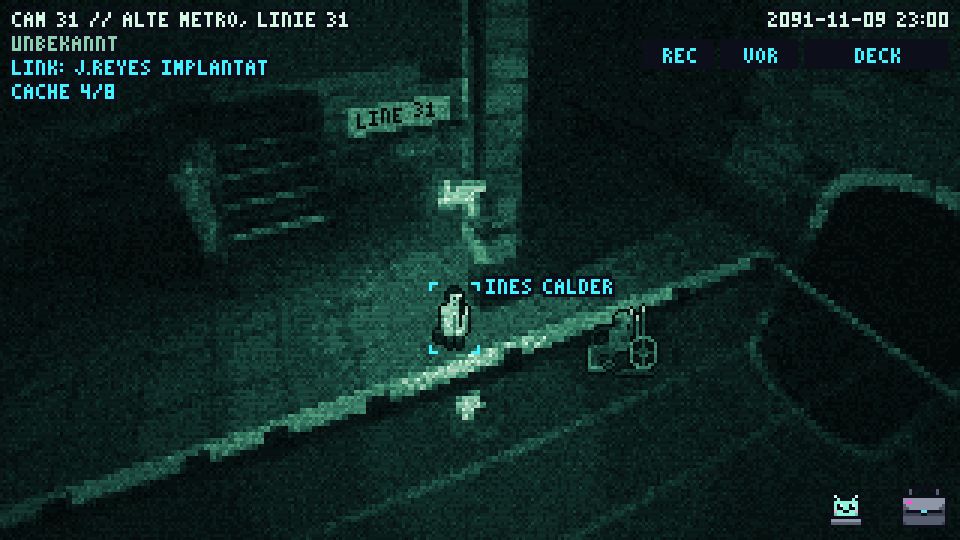
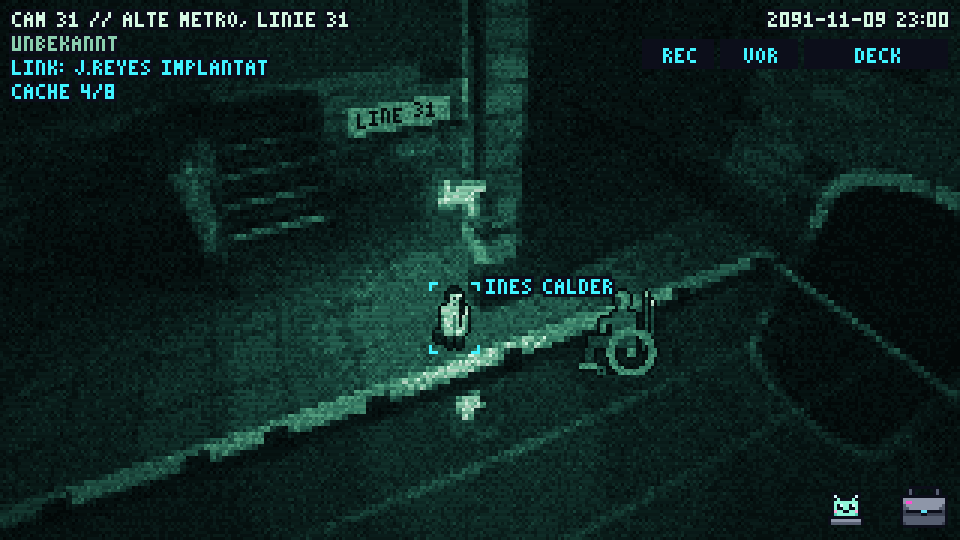
Lantern is now a silhouette like the wheelchair sign, the variant the user chose, with thicker wheels: one sprite in pure profile made of flat shapes, the man an L with flat thighs and shins down, a thick tyre and hub over his hip, a caster, two antennas behind, a thin pontoon at the waterline, mirr

Changed region(s): [[0.5938, 0.5333, 0.6875, 0.7111]]

diff --git a/assets/characters.js b/assets/characters.js
@@ -1,7 +1,7 @@
 // Generated by tools/build-atlas.mjs. Do not edit.
 Cutaway.assets.pack({
   images: {
[2 lines of base64/hex data omitted]
   },
   anims: {
     "ashe_feed": { image: "characters_atlas", frames: [[393,157,17,26,1300],[410,157,17,26,260]] },
@@ -13,23 +13,23 @@ Cutaway.assets.pack({
     "bao_idle_sw": { image: "characters_atlas", frames: [[251,1,31,50,167],[282,1,31,50,167],[313,1,31,50,167],[344,1,31,50,167],[375,1,31,50,167],[406,1,31,50,167],[437,1,31,50,167],[468,1,31,50,167]] },
     "bao_talk_se": { image: "characters_atlas", frames: [[753,53,31,50,160],[784,53,31,50,160],[815,53,31,50,160],[846,53,31,50,260]] },
     "bao_talk_sw": { image: "characters_atlas", frames: [[879,53,31,50,160],[910,53,31,50,160],[941,53,31,50,160],[972,53,31,50,260]] },
-    "commuter_a_feed": { image: "characters_atlas", frames: [[773,157,17,25,125]] },
+    "commuter_a_feed": { image: "characters_atlas", frames: [[669,157,17,25,125]] },
     "commuter_a_feed_walk": { image: "characters_atlas", frames: [[529,157,17,25,100],[546,157,17,25,100],[563,157,17,25,100],[580,157,17,25,100],[597,157,17,25,100],[614,157,17,25,100]] },
-    "commuter_b_feed": { image: "characters_atlas", frames: [[161,185,13,23,1200],[174,185,13,23,900]] },
-    "commuter_b_feed_walk": { image: "characters_atlas", frames: [[1,185,13,23,100],[14,185,13,23,100],[27,185,13,23,100],[40,185,13,23,100],[53,185,13,23,100],[66,185,13,23,100]] },
+    "commuter_b_feed": { image: "characters_atlas", frames: [[81,185,13,23,1200],[94,185,13,23,900]] },
+    "commuter_b_feed_walk": { image: "characters_atlas", frames: [[890,157,13,23,100],[903,157,13,23,100],[916,157,13,23,100],[929,157,13,23,100],[942,157,13,23,100],[955,157,13,23,100]] },
     "commuter_c_feed": { image: "characters_atlas", frames: [[501,157,13,26,1500],[514,157,13,26,800]] },
     "commuter_c_feed_walk": { image: "characters_atlas", frames: [[313,157,13,26,100],[326,157,13,26,100],[339,157,13,26,100],[352,157,13,26,100],[365,157,13,26,100],[378,157,13,26,100]] },
-    "commuter_d_feed": { image: "characters_atlas", frames: [[623,185,13,22,1300],[636,185,13,22,700]] },
-    "commuter_d_feed_walk": { image: "characters_atlas", frames: [[429,185,13,22,100],[442,185,13,22,100],[455,185,13,22,100],[468,185,13,22,100],[481,185,13,22,100],[494,185,13,22,100]] },
-    "drone_hover": { image: "characters_atlas", frames: [[651,185,29,18,100],[680,185,29,18,100],[709,185,29,18,100],[738,185,29,18,100],[767,185,29,18,100],[796,185,29,18,100],[825,185,29,18,100],[854,185,29,18,100],[883,185,29,18,100],[912,185,29,18,100],[941,185,29,18,100],[970,185,29,18,100]] },
-    "ines_feed_back": { image: "characters_atlas", frames: [[559,185,15,22,1700],[574,185,15,22,800]] },
-    "ines_feed_back_walk": { image: "characters_atlas", frames: [[245,185,15,22,100],[260,185,15,22,100],[275,185,15,22,100],[290,185,15,22,100],[305,185,15,22,100],[320,185,15,22,100]] },
-    "ines_feed_down": { image: "characters_atlas", frames: [[1,210,31,9,125]] },
-    "ines_feed_front": { image: "characters_atlas", frames: [[591,185,15,22,1700],[606,185,15,22,800]] },
-    "ines_feed_front_walk": { image: "characters_atlas", frames: [[337,185,15,22,100],[352,185,15,22,100],[367,185,15,22,100],[382,185,15,22,100],[397,185,15,22,100],[412,185,15,22,100]] },
-    "ines_feed_give": { image: "characters_atlas", frames: [[509,185,24,22,450],[533,185,24,22,350]], anchor: [7,22] },
-    "juno_feed": { image: "characters_atlas", frames: [[962,157,15,24,1400],[977,157,15,24,800]] },
-    "juno_feed_walk": { image: "characters_atlas", frames: [[792,157,15,24,100],[807,157,15,24,100],[822,157,15,24,100],[837,157,15,24,100],[852,157,15,24,100],[867,157,15,24,100]] },
+    "commuter_d_feed": { image: "characters_atlas", frames: [[543,185,13,22,1300],[556,185,13,22,700]] },
+    "commuter_d_feed_walk": { image: "characters_atlas", frames: [[349,185,13,22,100],[362,185,13,22,100],[375,185,13,22,100],[388,185,13,22,100],[401,185,13,22,100],[414,185,13,22,100]] },
+    "drone_hover": { image: "characters_atlas", frames: [[571,185,29,18,100],[600,185,29,18,100],[629,185,29,18,100],[658,185,29,18,100],[687,185,29,18,100],[716,185,29,18,100],[745,185,29,18,100],[774,185,29,18,100],[803,185,29,18,100],[832,185,29,18,100],[861,185,29,18,100],[890,185,29,18,100]] },
+    "ines_feed_back": { image: "characters_atlas", frames: [[479,185,15,22,1700],[494,185,15,22,800]] },
+    "ines_feed_back_walk": { image: "characters_atlas", frames: [[165,185,15,22,100],[180,185,15,22,100],[195,185,15,22,100],[210,185,15,22,100],[225,185,15,22,100],[240,185,15,22,100]] },
+    "ines_feed_down": { image: "characters_atlas", frames: [[921,185,31,9,125]] },
+    "ines_feed_front": { image: "characters_atlas", frames: [[511,185,15,22,1700],[526,185,15,22,800]] },
+    "ines_feed_front_walk": { image: "characters_atlas", frames: [[257,185,15,22,100],[272,185,15,22,100],[287,185,15,22,100],[302,185,15,22,100],[317,185,15,22,100],[332,185,15,22,100]] },
+    "ines_feed_give": { image: "characters_atlas", frames: [[429,185,24,22,450],[453,185,24,22,350]], anchor: [7,22] },
+    "juno_feed": { image: "characters_atlas", frames: [[858,157,15,24,1400],[873,157,15,24,800]] },
+    "juno_feed_walk": { image: "characters_atlas", frames: [[688,157,15,24,100],[703,157,15,24,100],[718,157,15,24,100],[733,157,15,24,100],[748,157,15,24,100],[763,157,15,24,100]] },
     "juno_idle_ne": { image: "characters_atlas", frames: [[1,105,27,50,900],[28,105,27,50,600],[55,105,27,50,120],[82,105,27,50,1100]] },
     "juno_idle_se": { image: "characters_atlas", frames: [[111,105,27,50,900],[138,105,27,50,600],[165,105,27,50,120],[192,105,27,50,1100]] },
     "juno_in_idle_ne": { image: "characters_atlas", frames: [[221,105,27,50,900],[248,105,27,50,600],[275,105,27,50,120],[302,105,27,50,1100]] },
@@ -42,13 +42,12 @@ Cutaway.assets.pack({
     "juno_talk_se": { image: "characters_atlas", frames: [[769,105,27,50,200],[796,105,27,50,200]] },
     "juno_walk_ne": { image: "characters_atlas", frames: [[1,53,27,50,100],[28,53,27,50,100],[55,53,27,50,100],[82,53,27,50,100],[109,53,27,50,100],[136,53,27,50,100],[163,53,27,50,100],[190,53,27,50,100]] },
     "juno_walk_se": { image: "characters_atlas", frames: [[219,53,27,50,100],[246,53,27,50,100],[273,53,27,50,100],[300,53,27,50,100],[327,53,27,50,100],[354,53,27,50,100],[381,53,27,50,100],[408,53,27,50,100]] },
-    "kessler_feed": { image: "characters_atlas", frames: [[189,185,13,23,1600],[202,185,13,23,700]] },
-    "kessler_feed_phone": { image: "characters_atlas", frames: [[217,185,13,23,900],[230,185,13,23,600]] },
+    "kessler_feed": { image: "characters_atlas", frames: [[109,185,13,23,1600],[122,185,13,23,700]] },
+    "kessler_feed_phone": { image: "characters_atlas", frames: [[137,185,13,23,900],[150,185,13,23,600]] },
     "kessler_feed_sit": { image: "characters_atlas", frames: [[825,105,17,37,1500],[842,105,17,37,1100]] },
-    "kessler_feed_umbrella": { image: "characters_atlas", frames: [[737,157,17,25,1100],[754,157,17,25,300]] },
-    "kessler_feed_walk": { image: "characters_atlas", frames: [[81,185,13,23,100],[94,185,13,23,100],[107,185,13,23,100],[120,185,13,23,100],[133,185,13,23,100],[146,185,13,23,100]] },
-    "lantern_feed_back": { image: "characters_atlas", frames: [[633,157,25,25,900],[658,157,25,25,900]] },
-    "lantern_feed_front": { image: "characters_atlas", frames: [[685,157,25,25,900],[710,157,25,25,900]] },
+    "kessler_feed_umbrella": { image: "characters_atlas", frames: [[633,157,17,25,1100],[650,157,17,25,300]] },
+    "kessler_feed_walk": { image: "characters_atlas", frames: [[1,185,13,23,100],[14,185,13,23,100],[27,185,13,23,100],[40,185,13,23,100],[53,185,13,23,100],[66,185,13,23,100]] },
+    "lantern_feed": { image: "characters_atlas", frames: [[957,105,29,30,900],[986,105,29,30,900]] },
     "motte_sit_se": { image: "characters_atlas", frames: [[437,53,39,50,380],[476,53,39,50,380],[515,53,39,50,380],[554,53,39,50,1100]] },
     "motte_sit_sw": { image: "characters_atlas", frames: [[595,53,39,50,380],[634,53,39,50,380],[673,53,39,50,380],[712,53,39,50,1100]] },
     "motte_talk_se": { image: "characters_atlas", frames: [[441,105,39,50,200],[480,105,39,50,200]] },
@@ -56,6 +55,6 @@ Cutaway.assets.pack({
     "varga_feed": { image: "characters_atlas", frames: [[465,157,17,26,2000],[482,157,17,26,900]] },
     "varga_feed_sit": { image: "characters_atlas", frames: [[909,105,23,31,1300],[932,105,23,31,400]] },
     "varga_feed_walk": { image: "characters_atlas", frames: [[209,157,17,26,100],[226,157,17,26,100],[243,157,17,26,100],[260,157,17,26,100],[277,157,17,26,100],[294,157,17,26,100]] },
-    "yuen_cook_feed": { image: "characters_atlas", frames: [[884,157,19,24,150],[903,157,19,24,150],[922,157,19,24,150],[941,157,19,24,700]] },
+    "yuen_cook_feed": { image: "characters_atlas", frames: [[780,157,19,24,150],[799,157,19,24,150],[818,157,19,24,150],[837,157,19,24,700]] },
   },
 });

diff --git a/art/characters/feed_people.px.js b/art/characters/feed_people.px.js
@@ -20,7 +20,7 @@
 //   commuter_d      a woman with long hair, a light coat and a shoulder bag (bag 6)
 //   yuen_cook       paper cap 8, apron 7, chopping at his counter
 //   ines            the end of Chapter 1, front and back: the white coat 9, a dark plait cut into it; a wallet with a light
-//   lantern         front and back, in the water: big spoked wheels (rims 8), a poncho 7, antennas with lit tips 9
+//   lantern         one profile, in the water, like the wheelchair sign: a thick wheel 8, a poncho 7, antennas with lit tips 9
 //   ashe            front only: a raincoat 8, no face, a burn 9 with no dark rim; the same in the shadow; the wave
 //
 // Walks: 6 frames x 100 ms, the same foot table as juno_feed_walk (the feet step 2 across and 1 up).
@@ -546,93 +546,29 @@ sprite("_i_down", `
   ..........................443`)
 anim("ines_feed_down", { w: 29, h: 7, frames: 1, outline: "1", pivot: "bottom" }, (c) => c.stamp("_i_down", 0, 0))
 
-// ---------------------------------------------------------------- Lantern, 23x23 inside (25x25)
-// A man sitting in a wheelchair, in the water, seen from three-quarters as the camera sees everyone. What says wheelchair is the
-// sitting man's L, thighs flat, shins down, feet on the plate, between a big spoked wheel near us and its twin behind him, with
-// a small caster in front: head-on, two wheels and a body made a small tank. What he rebuilt stays under that: a slim pontoon at
-// the waterline, the boat motor on the chair's back. The antennas rise from the chair's back, their tips the brightest on him.
-// He has no walk: the same sprites when he moves, the waterline staying where it is while the chair bobs.
-const FL = { W: 23, H: 23, WATER: 21 }
-sprite("_l_wheel", `
-  ..88888..
-  .88.7.88.
-  8...7...8
-  8...7...8
-  8..777..8
-  877757778
-  8..777..8
-  8...7...8
-  8...7...8
-  .88.7.88.
-  ..88888..`)                     // near us: the tyre bright, seen through between the spokes
-sprite("_l_wheel_far", `
-  ..55555..
-  .55...55.
-  5.......5
-  5.......5
-  5.......5
-  5...4...5
-  5.......5
-  5.......5
-  5.......5
-  .55...55.
-  ..55555..`)                     // beyond him, in less light
-sprite("_l_front", `
-  ...888..........
-  ..88888.........
-  ..88766.........
-  ..88753.........
-  ...8876.........
-  ...77777........
-  ..7777777.......
-  ..7777777.......
-  ..7557777.......
-  ..7557777.......
-  ..77777776......
-  ..77777776677777
-  ...7777666666668
-  .......666666668
-  ............6668
-  ............5668
-  ............5668
-  ............5668
-  ...........88888`)                 // the hood and the face in it, the poncho with its patch, the thighs flat, the shins down, the shoes
-sprite("_l_back", `
-  ...888...
-  ..88888..
-  ..88888..
-  ..88887..
-  ...8877..
-  ..777777.
-  .77777777
-  .77777776
-  .77557776
-  .77557776
-  .77777766
-  .66666666
-  .55555556
-  .55555556
-  ..555556.`)                        // the hood from behind, the poncho, the chair's back under it
-function lantern(c, o = {}) {
-  const b = o.bob ?? 0, back = o.back
-  c.stamp("_l_wheel_far", 13, 7 + b)
-  const masts = () => { for (const [x, top] of [[4, 0], [6, 3], [8, 1]]) { c.rect(x, top + b, 1, 10 - top, "7"); c.rect(x, top + b, 1, 2, "9") } }
-  masts()
-  if (back) {
-    c.stamp("_l_back", 8, 1 + b)
-    c.rect(6, 12 + b, 3, 1, "8")                                                // the push handle, sticking out behind
-    c.rect(11, 16 + b, 4, 1, "8"); c.rect(11, 17 + b, 4, 3, "7"); c.rect(12, 20, 2, 1, "5")   // the boat motor, its shaft into the water
-  } else {
-    c.stamp("_l_front", 7, 2 + b)
-    for (const [x, y, k] of [[15, 18, "7"], [16, 18, "7"], [17, 19, "7"], [14, 19, "7"], [15, 20, "7"], [16, 20, "7"], [15, 19, "4"], [16, 19, "4"]]) c.px(x, y + b, k)   // the caster
-    c.rect(17, FL.WATER + b, 6, 1, "7")                                         // the footplate
-  }
-  c.stamp("_l_wheel", 0, 10 + b)
-  c.rect(1, FL.WATER + 1, 13, 1, "5"); c.rect(3, FL.WATER, 9, 1, "6")           // the pontoon: its bottom is the waterline
+// ---------------------------------------------------------------- Lantern, 29x30 inside (31x32)
+// A wheelchair is thin lines, and thin lines don't survive the rim, the grain and the scanlines: every drawing of its parts turned
+// to clutter at this size. So this is the sign for a wheelchair instead, a pure profile of flat shapes: the man an L, thighs flat,
+// shins down, a thick wheel over his hip, a caster, two antennas behind. Facing right; the engine mirrors him. One view is enough,
+// since he travels across the picture. He stands larger than the scale, decided by the user: at 24 px the wheel didn't read.
+// No walk: the same sprite when he moves, the pontoon at the waterline staying while the chair bobs.
+const FL = { W: 29, H: 30 }
+const flRing = (c, cx, cy, r0, r1, k) => {
+  for (let y = 0; y < FL.H; y++) for (let x = 0; x < FL.W; x++) { const d = Math.hypot(x - cx, y - cy); if (d >= r0 && d <= r1) c.px(x, y, k) }
 }
-for (const [name, back] of [["lantern_feed_front", false], ["lantern_feed_back", true]]) {
-  anim(name, { w: FL.W, h: FL.H, frames: 2, ms: [900, 900], outline: "1", pivot: "bottom" }, (c) => lantern(c, { back, bob: c.frame }))
-}
+anim("lantern_feed", { w: FL.W, h: FL.H, frames: 2, ms: [900, 900], pivot: "bottom" }, (c) => {
+  const b = c.frame
+  for (const [x, top] of [[6, 1], [4, 4]]) { c.rect(x, top + b, 1, 16 - top, "7"); c.rect(x, top + b, 1, 2, "9") }   // the antennas, their tips the brightest on him
+  c.rect(5, 15 + b, 5, 1, "7"); c.rect(7, 15 + b, 1, 6, "7")                 // the push handle, the chair's back
+  c.rect(12, 2 + b, 5, 4, "8"); c.rect(13, 1 + b, 3, 6, "8"); c.rect(15, 3 + b, 2, 3, "6")   // the hood, the face in it
+  c.rect(13, 7 + b, 3, 1, "7"); c.rect(10, 8 + b, 8, 12, "7")                // the poncho
+  c.rect(16, 10 + b, 6, 2, "7"); c.rect(20, 12 + b, 2, 3, "8")               // the arm, the hand on his knee
+  c.rect(13, 16 + b, 13, 4, "6"); c.rect(24, 20 + b, 3, 6, "6"); c.rect(23, 25 + b, 6, 2, "8")   // the thigh, the shin, the shoe
+  flRing(c, 11, 21 + b, 5.8, 8.1, "8"); c.rect(10, 20 + b, 3, 3, "8")        // the wheel over his hip, its tyre and hub
+  flRing(c, 21, 27 + b, 0.9, 1.7, "7")                                       // the caster
+  c.rect(5, 29, 16, 1, "5")                                                  // the pontoon: its bottom is the waterline
+  fpRim(c, FL.W, FL.H, "1")
+})
 
 // ---------------------------------------------------------------- Corvin Ashe, 13x24 inside, 17x26 with the burn
 // Tall and narrow, a belted raincoat long to the calves, 8: a step under Ines's 9, or he reads grey-green instead of white. No

diff --git a/game/kapitel1.js b/game/kapitel1.js
@@ -87,7 +87,7 @@ Cutaway.actor("ines", { name: "Frau im Kittel", color: "#f0a0c0",
   talk: [{ if: "end_beat", then: ["Ines. Nicht die Treppe."], else: [{ if: { or: ["tag_ines", "day=4", "off_main"] }, then: ["Die kenn ich."], else: [{ tag: "ines" }, "Dr. Ines Calder. Das ist sie, vom Foto."] }] }] });
 Halcyon.people.lantern = { name: "ROLLSTUHL", known: "tag_lantern", label: "Jemand im Rollstuhl", speaker: "Jemand im Rollstuhl" };
 Cutaway.actor("lantern", { name: "Jemand im Rollstuhl", color: "#b0f0a0",
-  costume: { idle: { se: "lantern_feed_front", ne: "lantern_feed_back" }, walk: { se: "lantern_feed_front", ne: "lantern_feed_back" }, talk: { se: "lantern_feed_front", ne: "lantern_feed_back" } }, speed: [14, 10], voice: { pitch: 46, wave: "square", syllable: 85 },
+  costume: { idle: "lantern_feed", walk: "lantern_feed", talk: "lantern_feed" }, speed: [14, 10], voice: { pitch: 46, wave: "square", syllable: 85 },
   look: ["Drei Uhr früh. Wer wäscht um drei?", "Geflickter Poncho, Schwimmer am Rollstuhl, ein Bündel Antennen.", { if: "stick_ines", then: ["Der Trockner ist leer. Das Ticket nimmt er trotzdem."], else: ["Er holt, was sie dagelassen hat."] }],
   talk: [{ if: { or: ["tag_lantern", "off_main"] }, then: ["Den hab ich."], else: [{ tag: "lantern" }, "Dich merk ich mir. Wo willst du hin?"] }] });
 Cutaway.routine("ines", [
@@ -110,7 +110,10 @@ Cutaway.routine("lantern", [
 ["commuter_a", "commuter_b", "commuter_c", "commuter_d"].forEach((id, i) => {
   Cutaway.time.routines.get(id).push({ day: [2, 3, 4], from: "18:00", to: "19:00", room: "cam21", at: A21.queue[i], face: "ne" });
 });
-Halcyon.links = [{ actor: "commuter_c", if: ["day<4", "at:commuter_c=cam21"] }];
+// On Friday Juno knows her whatever she did: `tag_ines` is forgotten overnight to keep the states few, so the implant's mark is only the look (no state)
+Cutaway.i18n.declare("feed display", ["INES CALDER"]);
+Halcyon.links = [{ actor: "commuter_c", if: ["day<4", "at:commuter_c=cam21"] },
+  { actor: "ines", if: ["day=4", "!tag_ines"], label: "INES CALDER", color: "implant" }];
 
 // ---- the moments of job C
 Cutaway.moment("ines_drop", { room: "cam23", day: 3, from: "20:00", to: "20:15",

diff --git a/art/cams/cam31.px.js b/art/cams/cam31.px.js
@@ -278,7 +278,7 @@ scene("cam31_bg", { w: W, h: H, bg: "0" }, paintBg, signText, lampBox)
 scene("review_cam31", { w: W, h: H, bg: "0" }, paintBg, signText, lampBox, (c) => {
   put(c, "ashe_feed_walk", "midway", 300)
   put(c, "ines_feed_front", "edge")
-  put(c, "lantern_feed_back", "lantern")
+  put(c, "lantern_feed", "lantern")
 })
 // 23:04: she lies where she stood, he has come to her and waves up at the camera; Lantern is gone
 scene("review_cam31_ende", { w: W, h: H, bg: "0" }, paintBg, signText, lampBox, (c) => {
@@ -289,8 +289,8 @@ scene("review_cam31_ende", { w: W, h: H, bg: "0" }, paintBg, signText, lampBox, 
 // at the tunnel's mouth
 scene("review_cam31_wege", { w: W, h: H, bg: "0" }, paintBg, signText, lampBox, (c) => {
   put(c, "ashe_feed_dim", "shadow")
-  c.stamp("lantern_feed_front", 234, 121, { t: 0 })
-  put(c, "lantern_feed_front", "tunnel")
+  c.stamp("lantern_feed", 234, 121, { t: 0 })
+  put(c, "lantern_feed", "tunnel")
 })
 // everything over a dimmed picture: the display's covers (red), the spots (yellow), the ways (cyan), everyone at each spot
 scene("review_cam31_layout", { w: W, h: H, bg: "0" }, (c) => {
@@ -302,8 +302,8 @@ scene("review_cam31_layout", { w: W, h: H, bg: "0" }, (c) => {
   put(c, "ines_feed_front", "stairs")
   put(c, "ashe_feed", "asheMeet")
   put(c, "ines_feed_front", "edge")
-  put(c, "lantern_feed_back", "lantern")
-  put(c, "lantern_feed_front", "tunnel")
+  put(c, "lantern_feed", "lantern")
+  put(c, "lantern_feed", "tunnel")
   for (const [x, y, w, h] of COVERS) { c.hline(x, y, w, "R"); c.hline(x, y + h - 1, w, "R"); c.vline(x, y, h, "R"); c.vline(x + w - 1, y, h, "R") }
   for (const [name, [x, y]] of Object.entries(SPOTS)) { c.px(x, y, "Y"); c.px(x - 1, y, "Y"); c.px(x + 1, y, "Y"); c.px(x, y - 1, "Y"); c.px(x, y + 1, "Y"); c.text(x + 3, y + 1, name.toUpperCase(), "Y") }
 })

diff --git a/art/characters/feed_people_review.px.js b/art/characters/feed_people_review.px.js
@@ -54,13 +54,13 @@ scene("review_feed_ch1", { w: 430, h: 114, bg: "2" }, (c) => {
   GROUNDS.forEach((k, i) => c.rect(0, 12 + i * STRIP, 430, STRIP, k))
   const FIGS = [[10, "kessler_feed", 0], [28, "ines_feed_front", 0], [44, "ines_feed_front", 1700], [60, "ines_feed_front_walk", 0], [76, "ines_feed_front_walk", 300],
     [92, "ines_feed_back", 0], [108, "ines_feed_back_walk", 300], [130, "ines_feed_give", 0], [160, "ines_feed_give", 450], [192, "ines_feed_down", 0],
-    [224, "lantern_feed_front", 0], [250, "lantern_feed_front", 900], [276, "lantern_feed_back", 0], [302, "lantern_feed_back", 900],
+    [224, "lantern_feed", 0], [262, "lantern_feed", 900],
     [324, "ashe_feed", 0], [342, "ashe_feed_walk", 200], [362, "ashe_feed_wave", 0], [382, "ashe_feed_wave", 400], [402, "ashe_feed_dim", 0], [420, "ashe_feed_dim_walk", 200]]
   GROUNDS.forEach((k, i) => {
     const y = 12 + i * STRIP + STRIP - 3
     FIGS.forEach(([x, n, t]) => c.stamp(n, x, y, { t }))
   })
-  for (const [x, s] of [[3, "1.75M"], [24, "INES"], [90, "HINTEN"], [124, "GIBT"], [180, "LIEGT"], [212, "LANTERN"], [270, "HINTEN"], [318, "ASHE"], [356, "WINKT"], [398, "DUNKEL"]]) c.text(x, 3, s, "8")
+  for (const [x, s] of [[3, "1.75M"], [24, "INES"], [90, "HINTEN"], [124, "GIBT"], [180, "LIEGT"], [212, "LANTERN"], [318, "ASHE"], [356, "WINKT"], [398, "DUNKEL"]]) c.text(x, 3, s, "8")
   for (let i = 0; i < 3; i++) c.rect(1, 12 + i * STRIP + STRIP - 3 - 24, 1, 24, "7")          // 24 px, the scale's mark
 })
 

diff --git a/docs/story.md b/docs/story.md
@@ -597,5 +597,5 @@ Die Blockskizzen für den Mord und die Figuren der Stadt sind freigegeben (`docs
 - **Frau Imai sitzt an einem kleinen Tisch** im LUCKY STATIC.
 - **Die Regenleserin hat ihre eigene Regenrinne** auf einer Stange vor der Brüstung. Das ändert das Dach von heute, nicht das alte Foto am Deck.
 - **Der Ablauf in `cam31`:** Lantern fährt zuerst weg, danach will Ines zurück zur Treppe, der Mann tritt ihr plötzlich in den Weg, es gibt einen Streit, und er ermordet sie. Lantern sieht nichts und lässt sie nicht im Stich: Die lange Wange der Treppe verdeckt den Schatten daneben für ihn und für Ines; nur die Kamera sieht hinein, und so bleiben Juno die vier Versuche. Vom Streit hört man nur Ines, Ashes erste Äußerung bleibt das Winken. *Vorschlag, noch nicht entschieden:* Ashe lässt Lantern absichtlich ziehen, denn der soll den Mord tragen; und Junos echter Clip zeigt, dass Lantern schon fort war, als Ines starb, was die Fälschung in Kapitel 2 widerlegt.
-- **Lantern im Rollstuhl** ist von schräg vorn und schräg hinten zu sehen, nicht frontal: das große Speichenrad bei der Kamera, der Mann darin sitzend, Oberschenkel waagerecht, Füße auf der Fußstütze, vorn das kleine Lenkrad. Frontal war er ein kleiner Panzer. Vorbild: zwei Fotos von Rollstuhlfahrern, die der Nutzer geschickt hat.
+- **Lantern im Rollstuhl** ist im Feed eine klare Silhouette wie das Rollstuhl-Piktogramm: reines Profil aus Flächen, der Mann ein L, ein dickes Rad über der Hüfte, ein Lenkrad, zwei Antennen; gespiegelt, wenn er nach links fährt. Größer als der Maßstab (32 px statt etwa 25), weil das Rad sonst nicht zu lesen war. Dünne Linien wie Speichen überleben Rand, Korn und Scanlines nicht; der Umbau (Schwimmer, Motor) kommt, wenn überhaupt, in eine Nahaufnahme.
 - **Die Technik der anderen:** die Regenleserin ein Tropfenzähler am Eimer, der Prediger ein Zähler um den Hals mit seinen wachen Tagen (9, 10, 11), der Monteur eine Stirnlampe und `9-A` auf dem Rücken.
